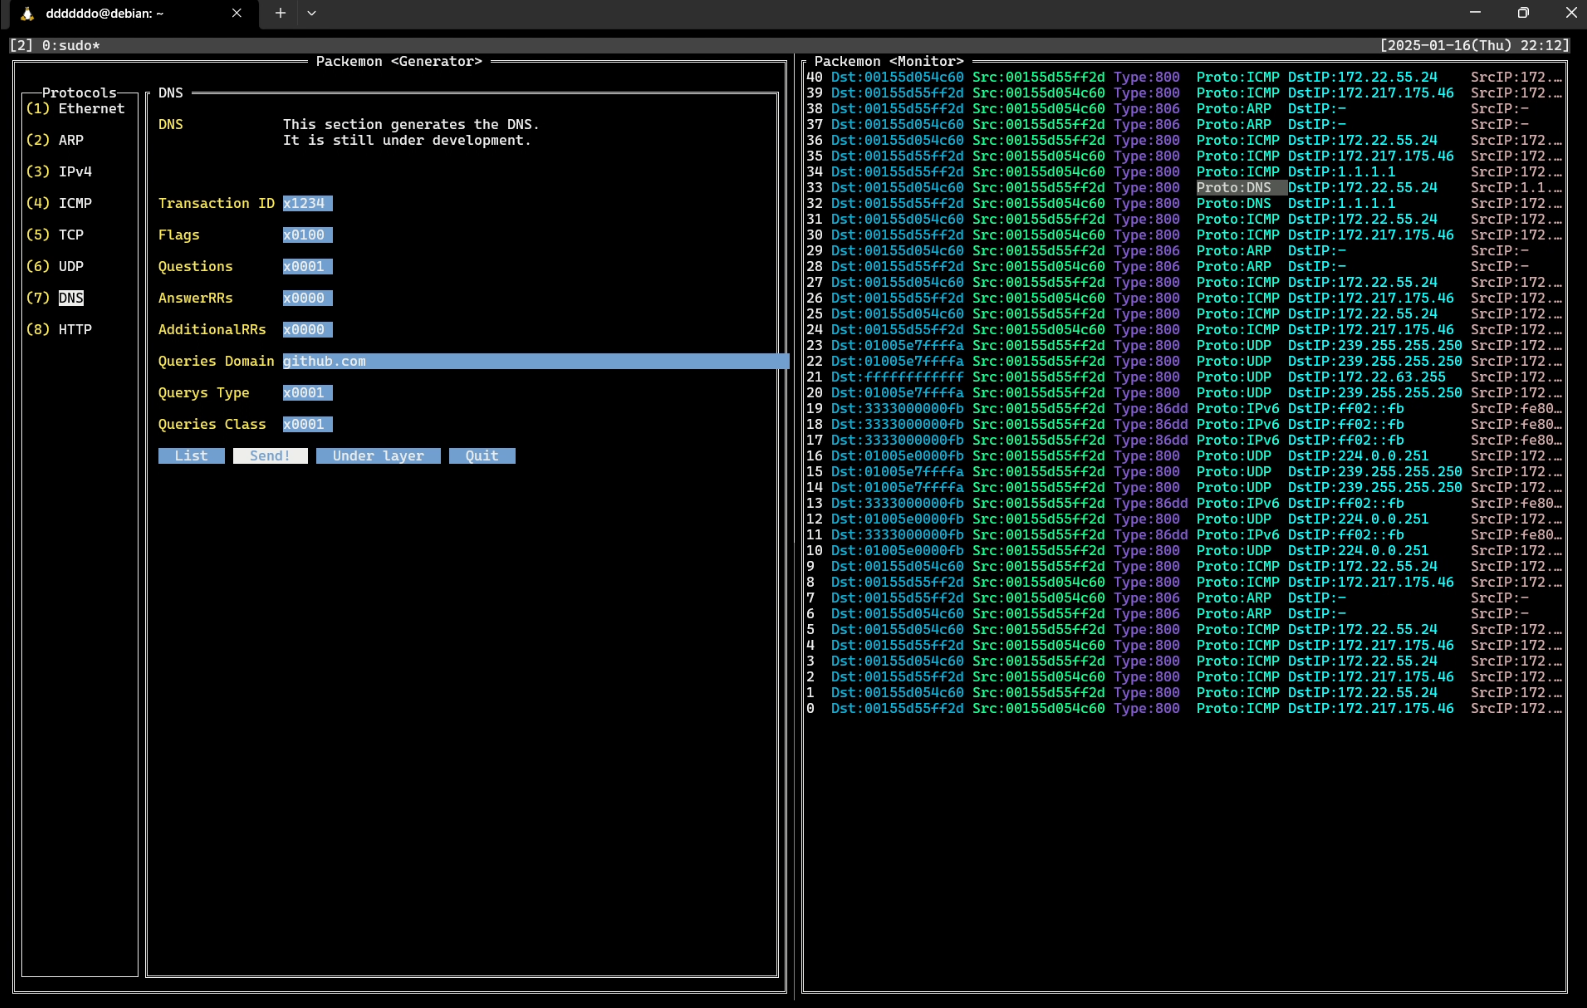
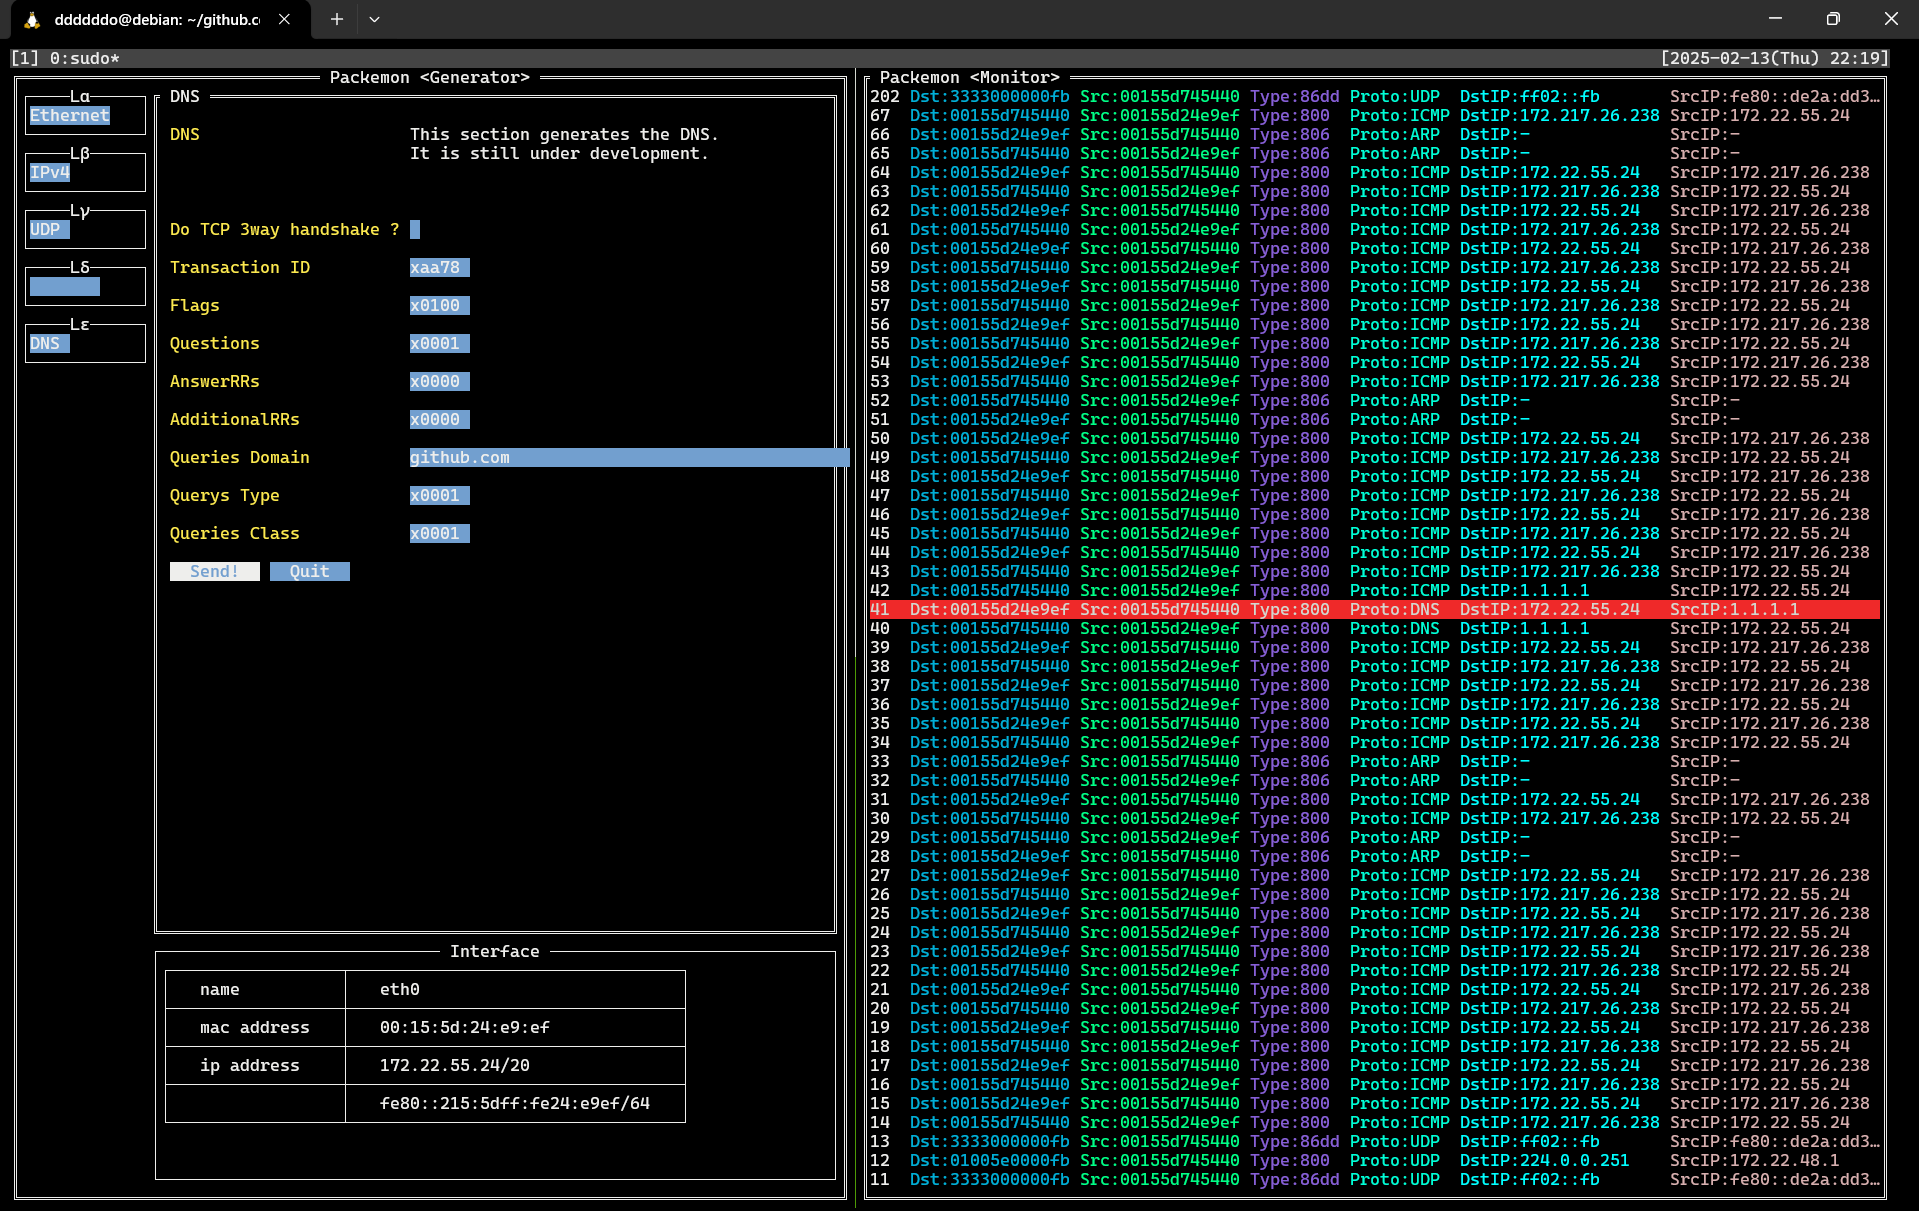
up

diff --git a/README.md b/README.md
@@ -3,7 +3,7 @@
 Packet monster, or `Packémon` for short! (っ‘-’)╮=͟͟͞͞◒ ヽ( '-'ヽ) <br>
 
 <!-- ![](./assets/packemon.gif) -->
-https://github.com/user-attachments/assets/d4ec78d1-ed1e-4c6e-8abe-70808742f549
+https://github.com/user-attachments/assets/dbb0baeb-a0b8-4e18-8647-ac05020f83d5
 
 TUI tool for generating packets of arbitrary input and monitoring packets on any network interfaces (default: `eth0`). **This tool is not available for Windows and macOS. I have confirmed that it works on Linux (Debian and Ubuntu on WSL2) .**<br>
 
@@ -156,22 +156,22 @@ $ apk add --allow-untrusted packemon.apk
 
     ← Generator | Monitor →
 
-    ![](./assets/sending_dns_query_and_monitoring_dns_response/1.png)
+    ![](./assets/packemon_dns.png)
 
 2. Generator
-    - `Protocols` > `Ethernet` > `Ether Type` > **IPv4**
-    - `Protocols` > `IPv4` > `Protocol` > **UDP**
-    - `Protocols` > `IPv4` > `Destination IP Addr` > **1.1.1.1**
+    - `Lα` > `Ethernet` > `Ether Type` > **IPv4**
+    - `Lβ` > `IPv4` > `Protocol` > **UDP**
+    - `Lβ` > `IPv4` > `Destination IP Addr` > **1.1.1.1**
       - Enter the address of DNS resolver here. Above is the address of Cloudflare resolver.
-    - `Protocols` > `UDP` > `Destination Port` > **53**
-    - `Protocols` > `UDP` > `Automatically calculate length ?` > **(Check!)**
-    - `Protocols` > `DNS` > `Queries Domain` > **go.dev**
+    - `Lγ` > `UDP` > `Destination Port` > **53**
+    - `Lγ` > `UDP` > `Automatically calculate length ?` > **(Check!)**
+    - `Lε` > `DNS` > `Queries Domain` > **go.dev**
       - Enter here the domain for which you want to name resolution.
 
-    - `Protocols` > `DNS` > Click on **Send!**
+    - `Lε` > `DNS` > Click on **Send!**
       - At this time, DNS query is sent with the contents set so far.
 
-    ![](./assets/sending_dns_query_and_monitoring_dns_response/2.png)
+    ![](./assets/packemon_dns_response_2.png)
 
 3. Monitor
 
